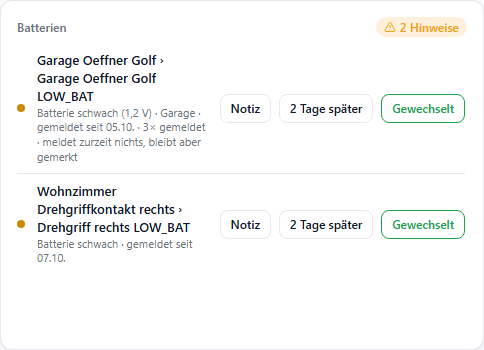
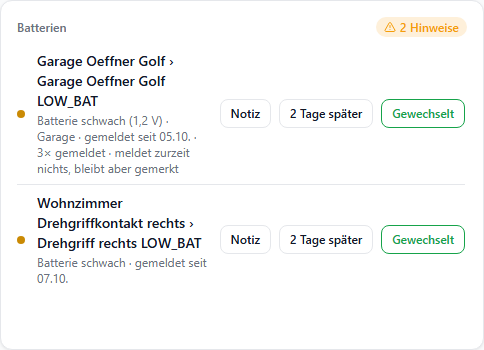
fix(statusoverview): two-line layout on the standard text steps
Name text-sm (body), second line text-xs (small) instead of the off-scale
13/11 px; remeasured.

diff --git a/src-vis/components/widgets/StatusOverviewWidget.tsx b/src-vis/components/widgets/StatusOverviewWidget.tsx
@@ -966,22 +966,11 @@ function StatusOverviewLive({ config, editMode }: WidgetProps) {
                     aria-hidden
                 />
                 <div className="min-w-0" style={{ flex: '1 1 10rem' }}>
-                    <div
-                        className="leading-snug font-semibold break-words"
-                        style={{ color: 'var(--text-primary)', fontSize: 'calc(0.8125rem * var(--font-scale, 1))' }}
-                    >
+                    <div className="text-sm font-semibold break-words" style={{ color: 'var(--text-primary)' }}>
                         {labelFor(item)}
                     </div>
                     {sub && (
-                        <div
-                            className="break-words"
-                            style={{
-                                color: 'var(--text-secondary)',
-                                fontSize: 'calc(0.6875rem * var(--font-scale, 1))',
-                                lineHeight: 1.35,
-                                marginTop: 1,
-                            }}
-                        >
+                        <div className="text-xs break-words" style={{ color: 'var(--text-secondary)', marginTop: 1 }}>
                             {sub}
                         </div>
                     )}

diff --git a/RELEASE_NOTES.md b/RELEASE_NOTES.md
@@ -7,4 +7,4 @@
 # Issue reference (optional): append (#519) — or paste the full issue URL — and the
 # release turns it into a changelog link. release.ps1 also asks per entry.
 
-- Status overview - smaller, calmer type in the two-line layout, in line with the other widgets
+- Status overview - the two-line layout uses the standard text sizes, in line with the other widgets
